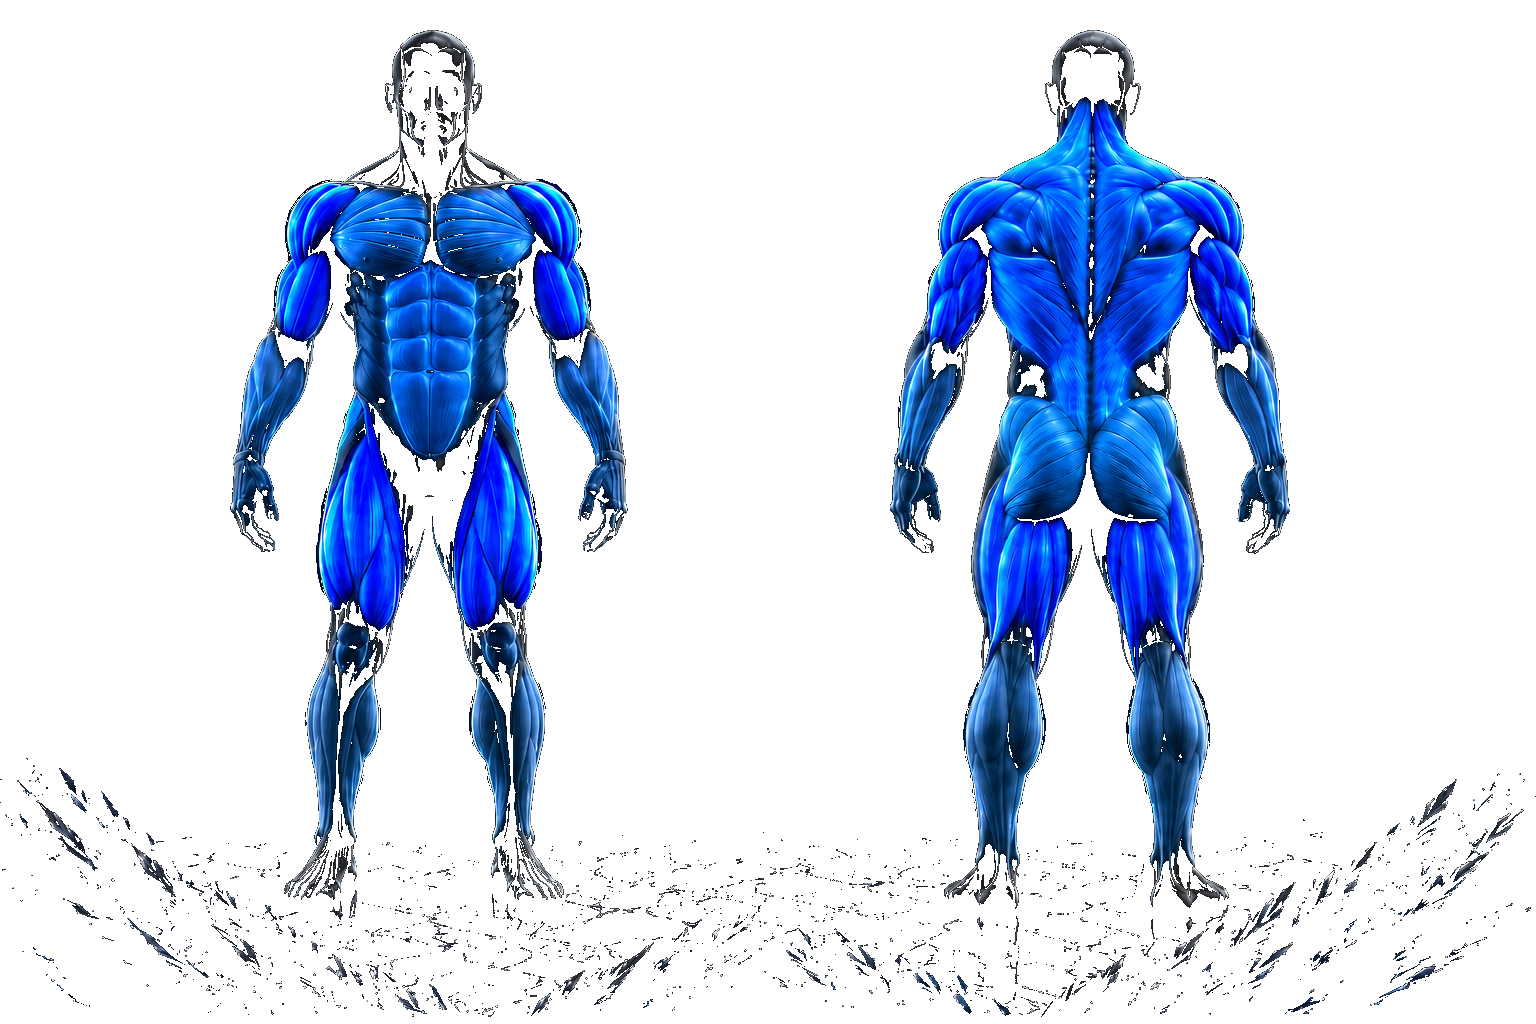
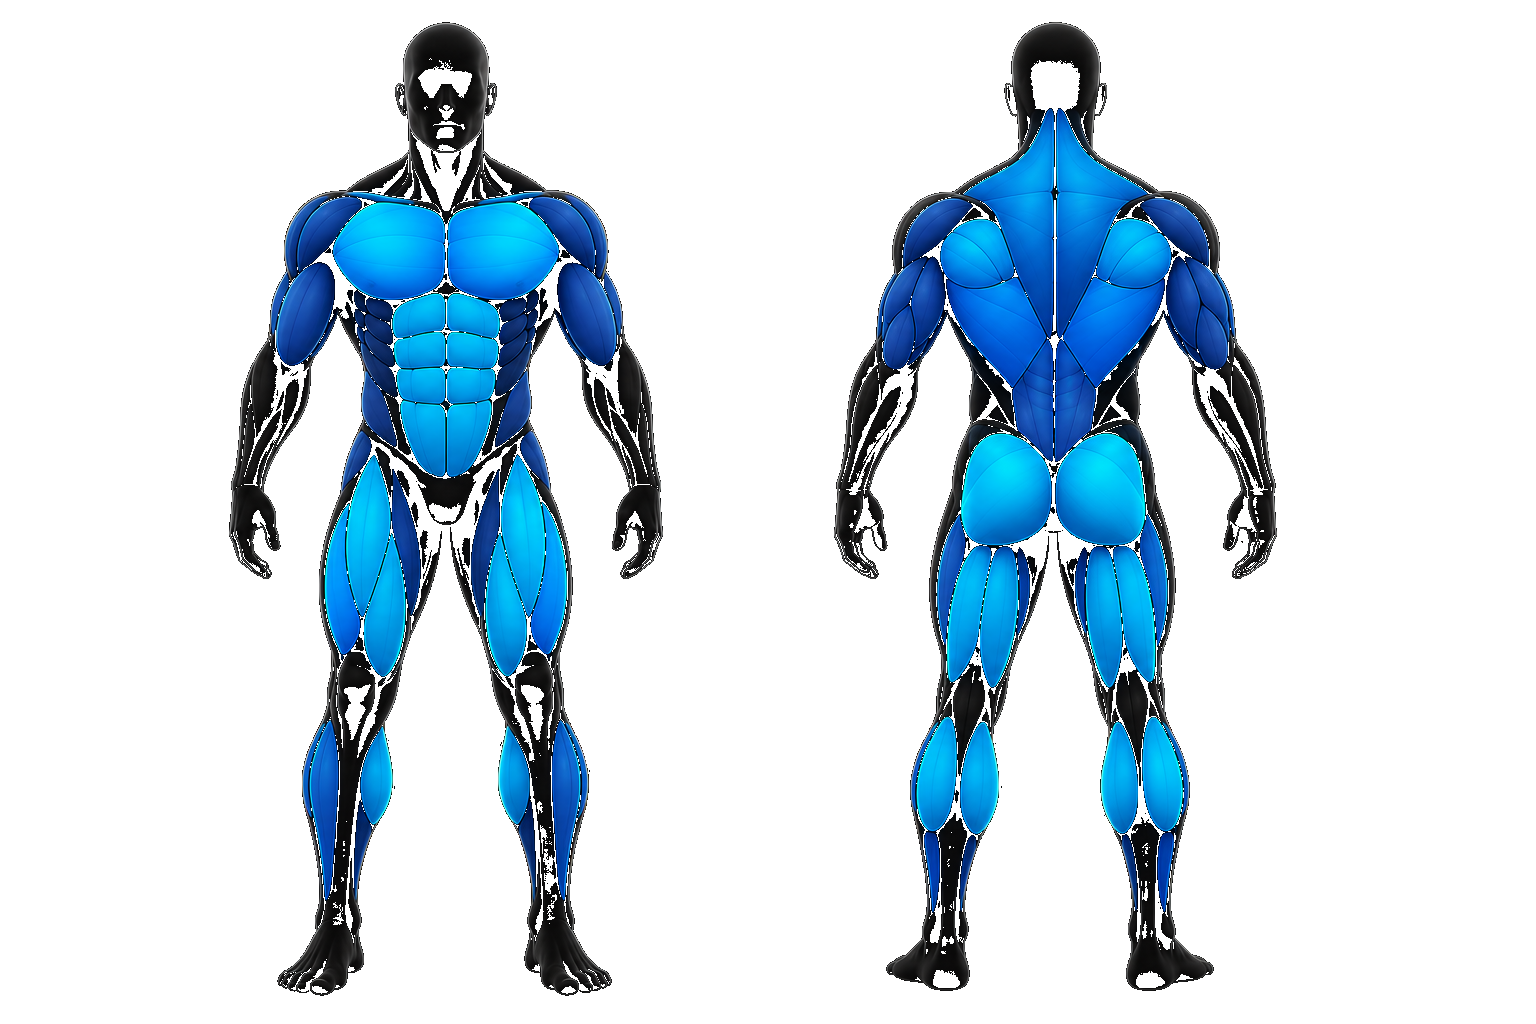
fix: voltar imagem boneco 3D de qualidade

diff --git a/src/App.jsx b/src/App.jsx
@@ -4046,78 +4046,14 @@ const MUSCLE_IMG = {
 const MUSCLE_PRIORITY = ["Peito","Costas","Pernas","Ombros","Braços","Core","Glúteos","Panturrilha"];
 
 function BodyDiagram({muscleHeat,width=320}){
-  // muscleHeat: { "Peito": pct, "Costas": pct, ... }
-  // pct: 0=máximo calor, 100=descansado
-
-  // Mapeia grupos Carbon → arquivos de máscara (frente e costas)
-  const MUSCLE_MASKS = {
-    "Ombros":      ["f_ombros","b_ombros","b_ombros_r","b_trapezio"],
-    "Peito":       ["f_peito"],
-    "Biceps":      ["f_biceps","f_biceps_r"],
-    "Core":        ["f_core"],
-    "Pernas":      ["f_quad","f_tibial","b_isquio"],
-    "Costas":      ["b_costas","b_trapezio"],
-    "Glúteos":     ["b_gluteos"],
-    "Panturrilha": ["b_panturrilha"],
-    "Triceps":     ["b_triceps_r"],
-  };
-
-  // Determinar quais máscaras mostrar e com qual cor
-  const activeLayers = useMemo(()=>{
-    const layers = {};
-    Object.entries(muscleHeat).forEach(([group, pct])=>{
-      if(pct == null || pct >= 100) return;
-      const masks = MUSCLE_MASKS[group] || [];
-      const color = pct < 30 ? "high" : pct < 65 ? "medium" : "low";
-      masks.forEach(m => {
-        // Se já tem esse músculo, pega o mais ativo
-        if(!layers[m] || layers[m].pct > pct) {
-          layers[m] = { color, pct };
-        }
-      });
-    });
-    return layers;
-  }, [muscleHeat]);
-
   const H = Math.round(width * (1024/1536));
-
-  // Agrupa por nível para minimizar camadas
-  const highMasks   = Object.keys(activeLayers).filter(k => activeLayers[k].color === "high");
-  const mediumMasks = Object.keys(activeLayers).filter(k => activeLayers[k].color === "medium");
-  const lowMasks    = Object.keys(activeLayers).filter(k => activeLayers[k].color === "low");
-
   return(
     <div style={{width, height:H, margin:"0 auto", position:"relative", borderRadius:12, overflow:"hidden", background:"transparent"}}>
-      {/* Boneco base */}
-      <img src="/muscles/body-base.png" alt="" style={{position:"absolute",inset:0,width:"100%",height:"100%",objectFit:"contain",pointerEvents:"none"}}/>
-
-      {/* Overlays por grupo muscular com mixBlendMode screen para brilhar */}
-      {highMasks.length>0 && highMasks.map(m=>(
-        <img key={m} src={`/muscles/${m}.png`} alt="" style={{
-          position:"absolute",inset:0,width:"100%",height:"100%",
-          objectFit:"contain",pointerEvents:"none",
-          mixBlendMode:"screen", opacity:1,
-          filter:"brightness(1.4) saturate(1.5)",
-        }}/>
-      ))}
-      {mediumMasks.length>0 && mediumMasks.map(m=>(
-        <img key={m} src={`/muscles/${m}.png`} alt="" style={{
-          position:"absolute",inset:0,width:"100%",height:"100%",
-          objectFit:"contain",pointerEvents:"none",
-          mixBlendMode:"screen", opacity:0.65,
-          filter:"brightness(0.9) saturate(1.2) hue-rotate(20deg)",
-        }}/>
-      ))}
-      {lowMasks.length>0 && lowMasks.map(m=>(
-        <img key={m} src={`/muscles/${m}.png`} alt="" style={{
-          position:"absolute",inset:0,width:"100%",height:"100%",
-          objectFit:"contain",pointerEvents:"none",
-          mixBlendMode:"screen", opacity:0.35,
-          filter:"brightness(0.7) hue-rotate(40deg)",
-        }}/>
-      ))}
-
-      {/* Legenda */}
+      <img
+        src="/body-semana-atual.png"
+        alt="Mapa muscular"
+        style={{width:"100%",height:"100%",objectFit:"contain",display:"block"}}
+      />
       <div style={{position:"absolute",bottom:4,left:0,right:0,display:"flex",justifyContent:"center",gap:10}}>
         {[{c:"#00C8FF",l:"Ativo"},{c:"#1E64DC",l:"Moderado"},{c:"#143296",l:"Baixo"},{c:"rgba(255,255,255,0.2)",l:"Descansado"}].map(item=>(
           <div key={item.l} style={{display:"flex",alignItems:"center",gap:3}}>
